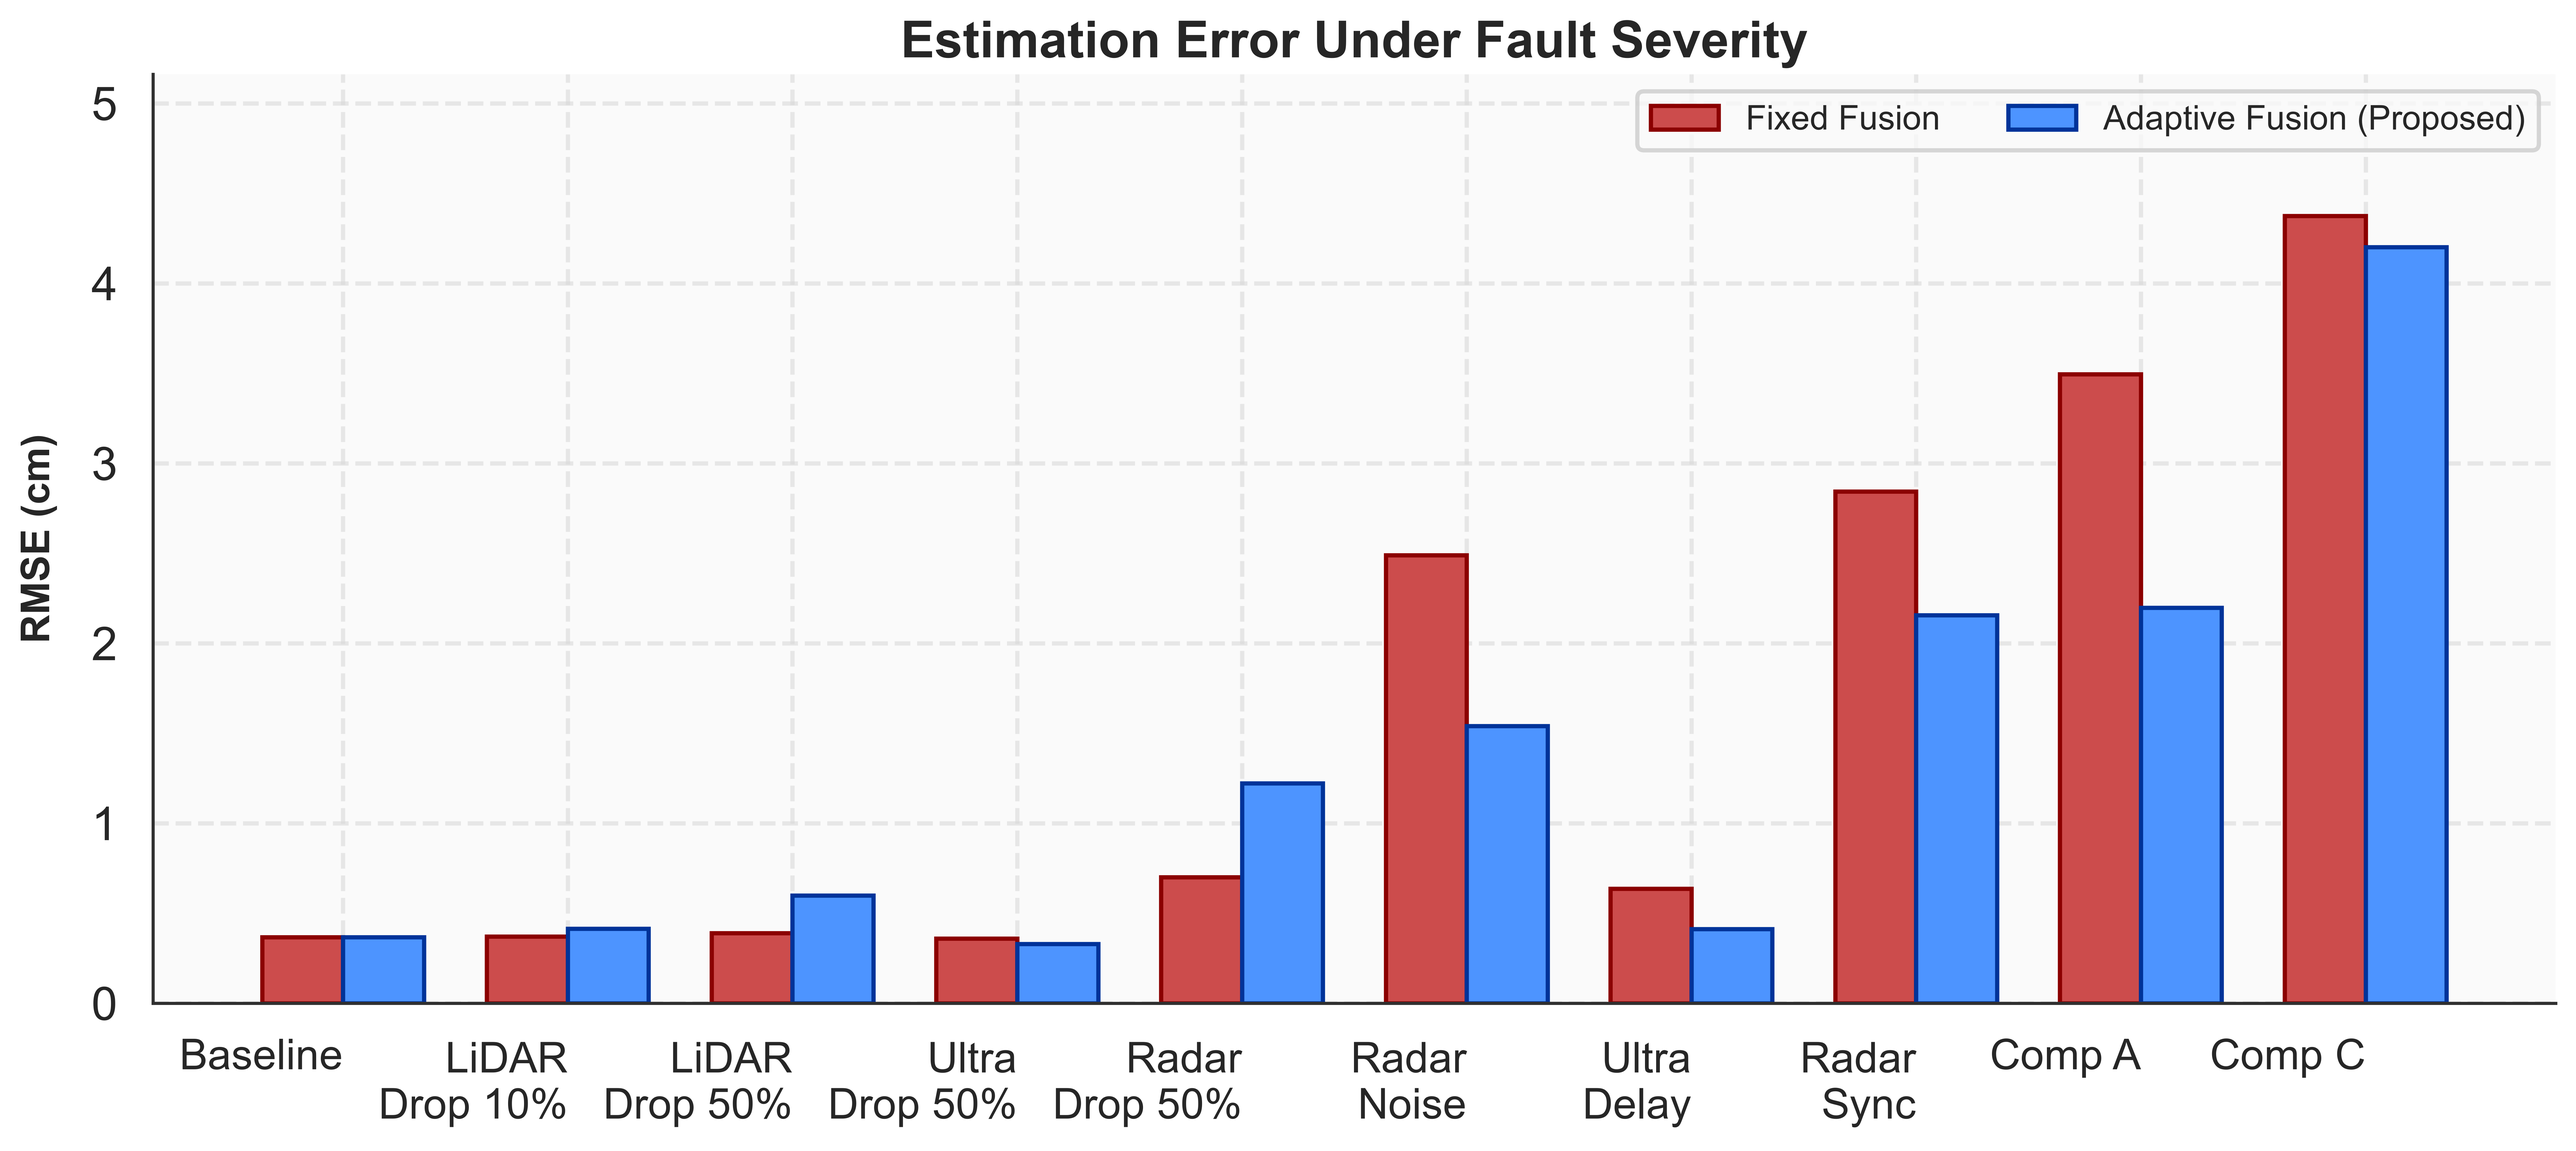
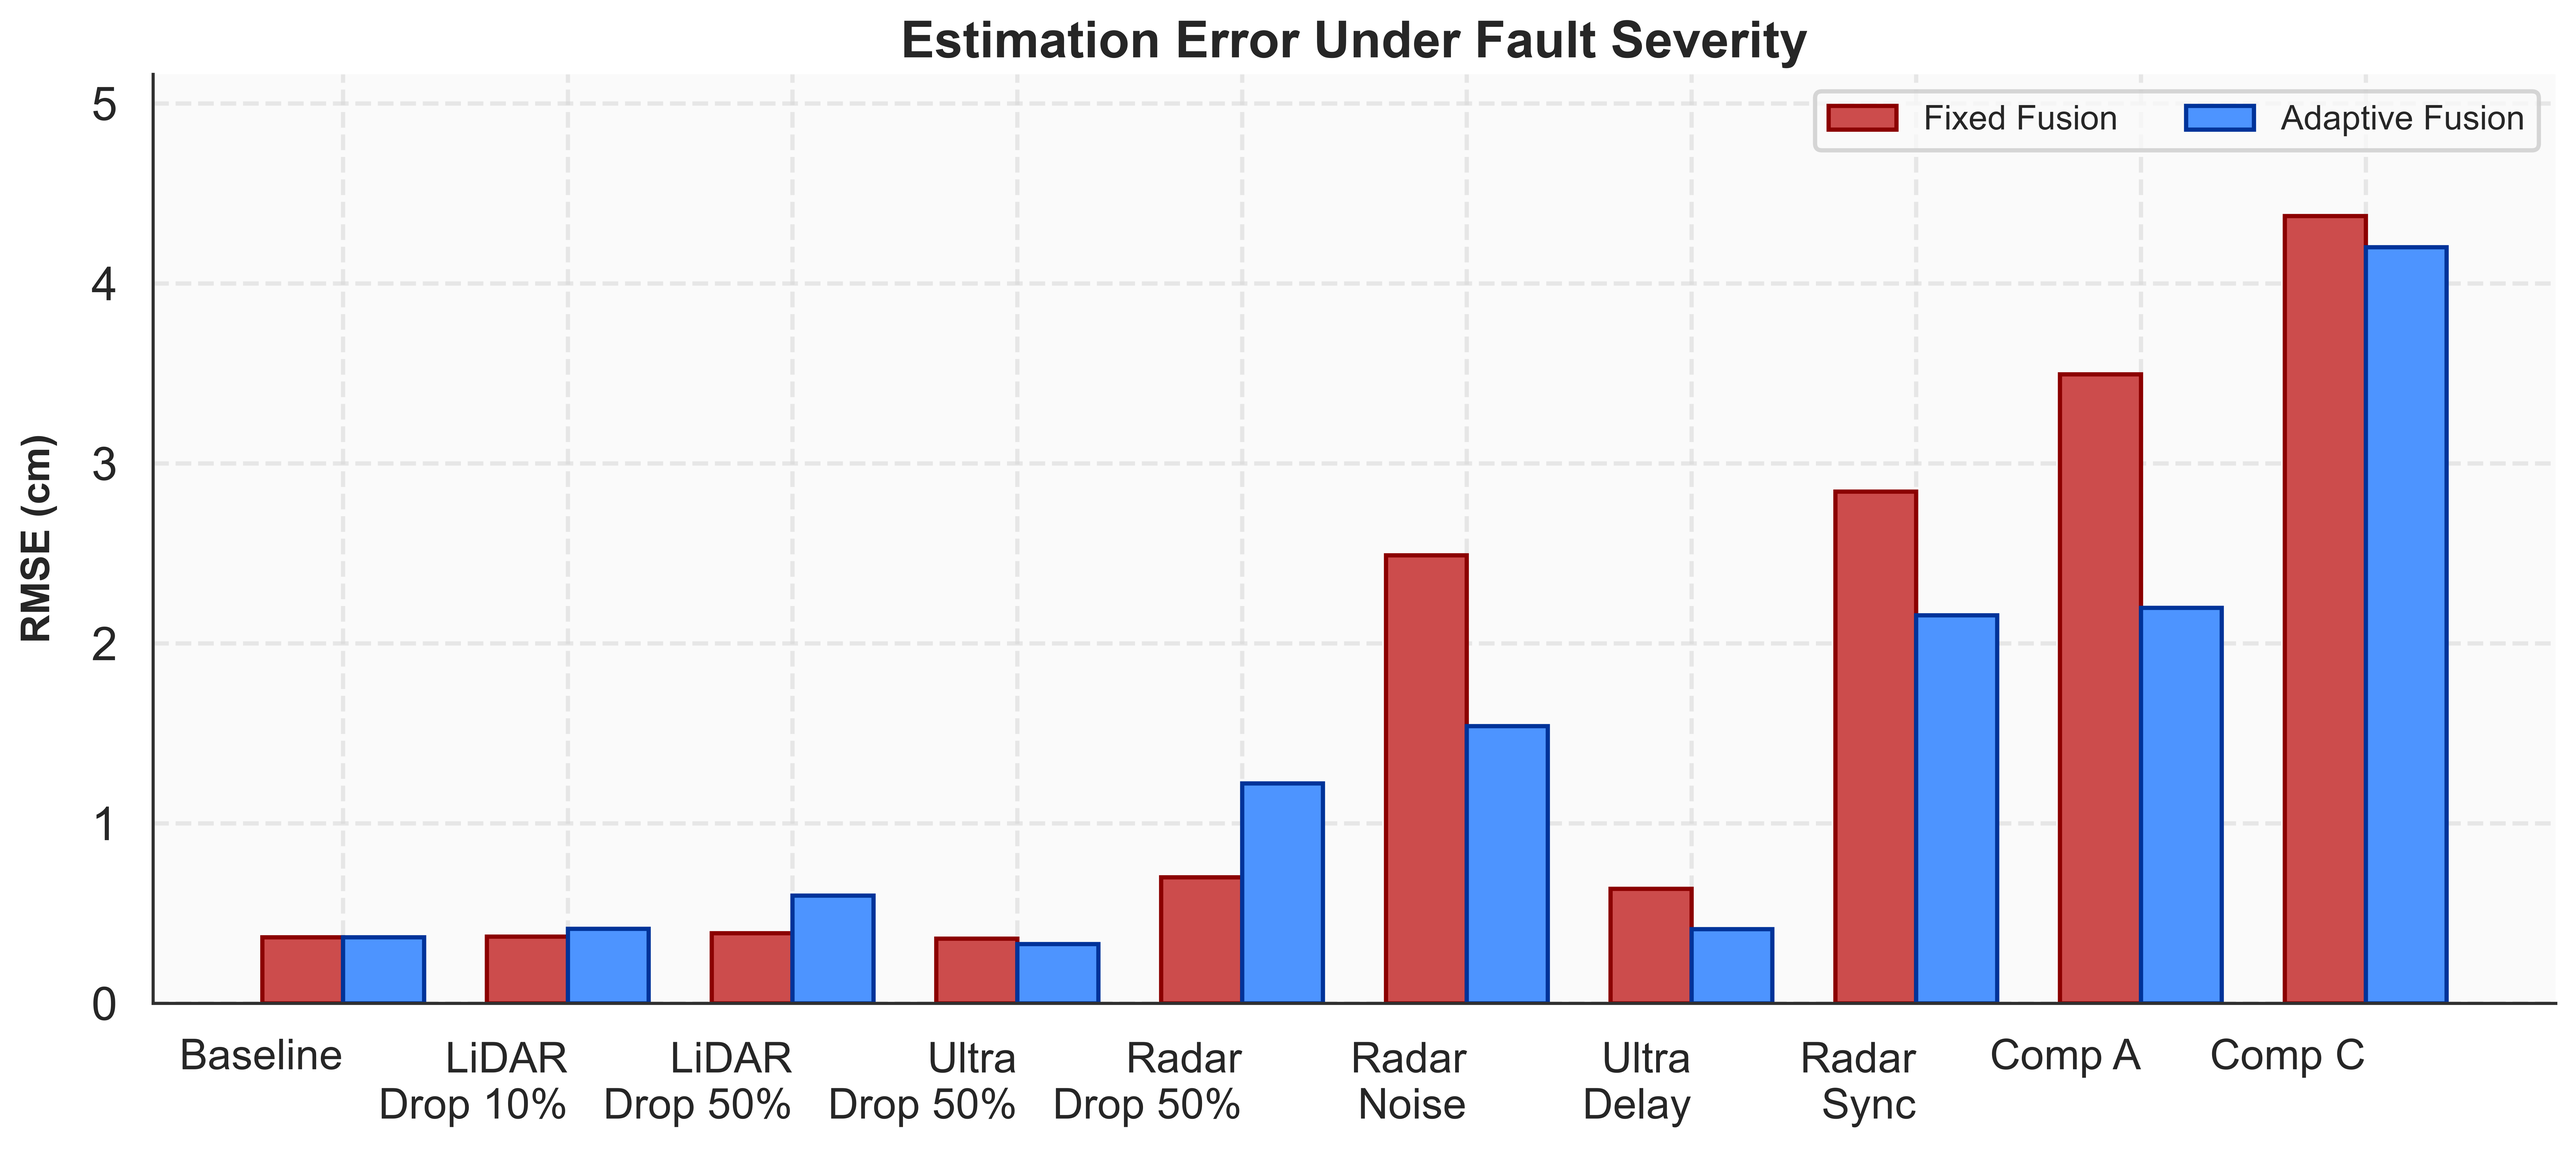
Legend Title Update For Figure 1: RMSE Under Fault Severity

Changed region(s): [[0.6241, 0.0624, 0.9986, 0.1561]]

diff --git a/scripts/robustness_evaluator.py b/scripts/robustness_evaluator.py
@@ -111,7 +111,7 @@ def generate_robustness_figures(results_path=RESULTS_FILE):
         x_vals + width / 2,
         ordered_df["Adaptive_RMSE_cm"],
         width=width,
-        label="Adaptive Fusion (Proposed)",
+        label="Adaptive Fusion",
         color="#4d94ff",
         edgecolor="#003399")
 
